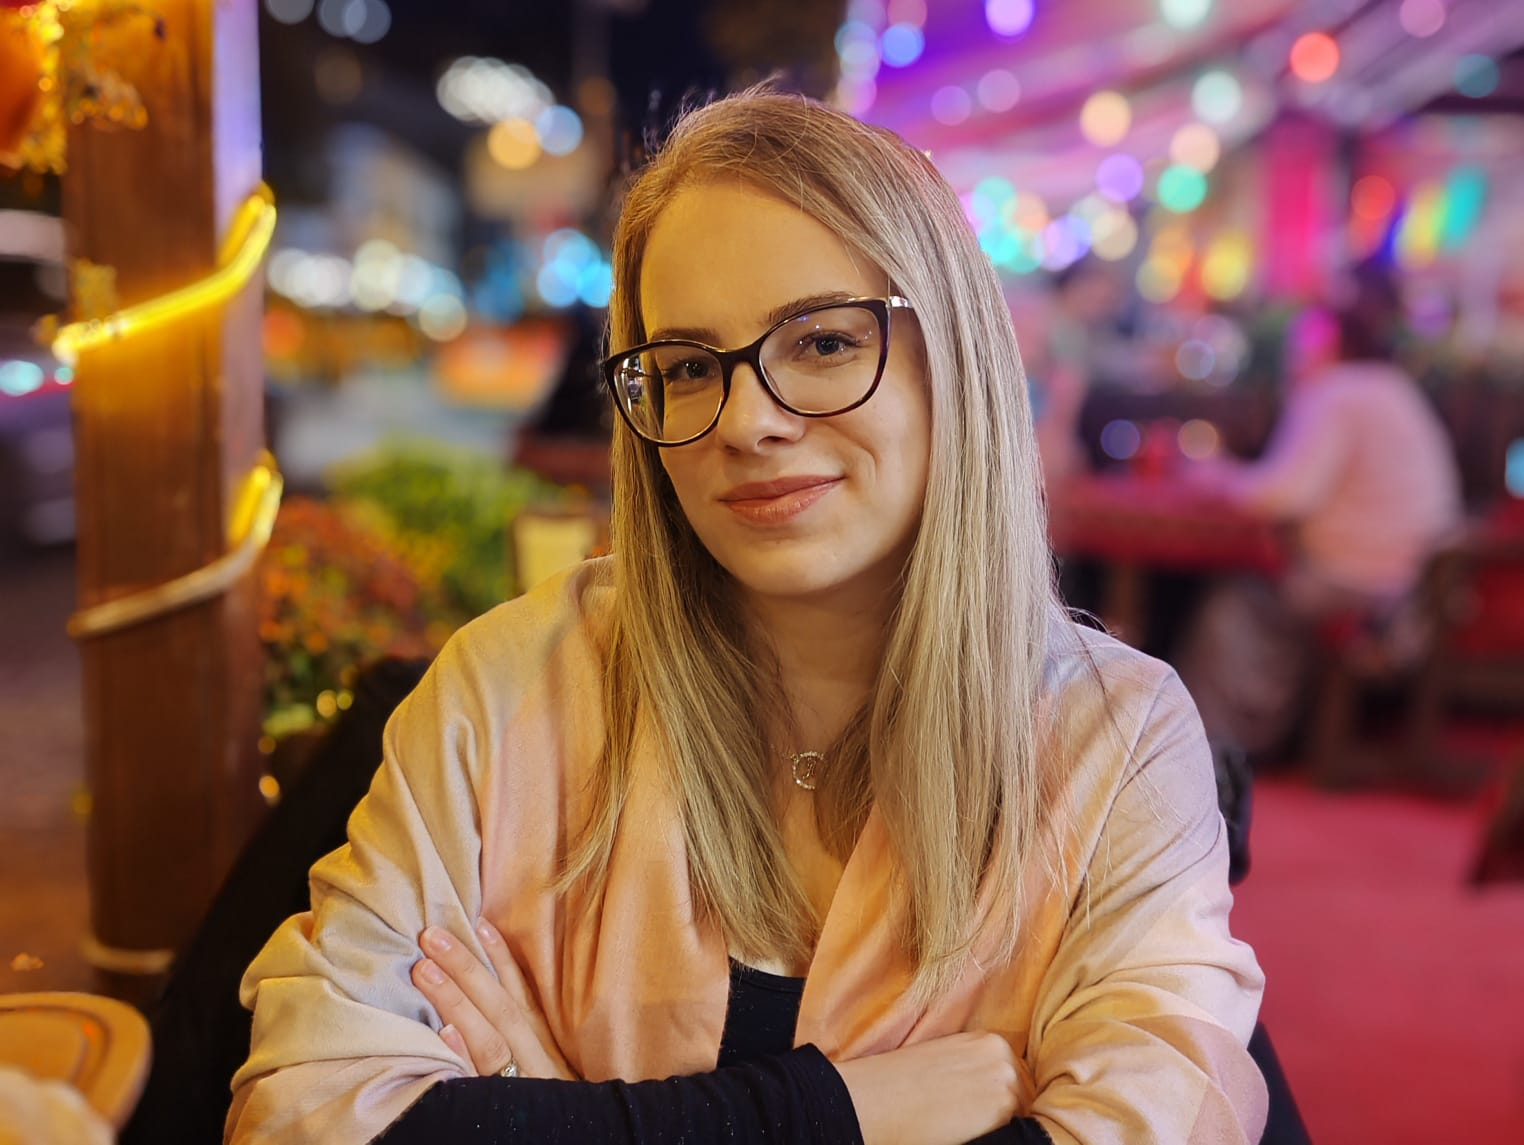
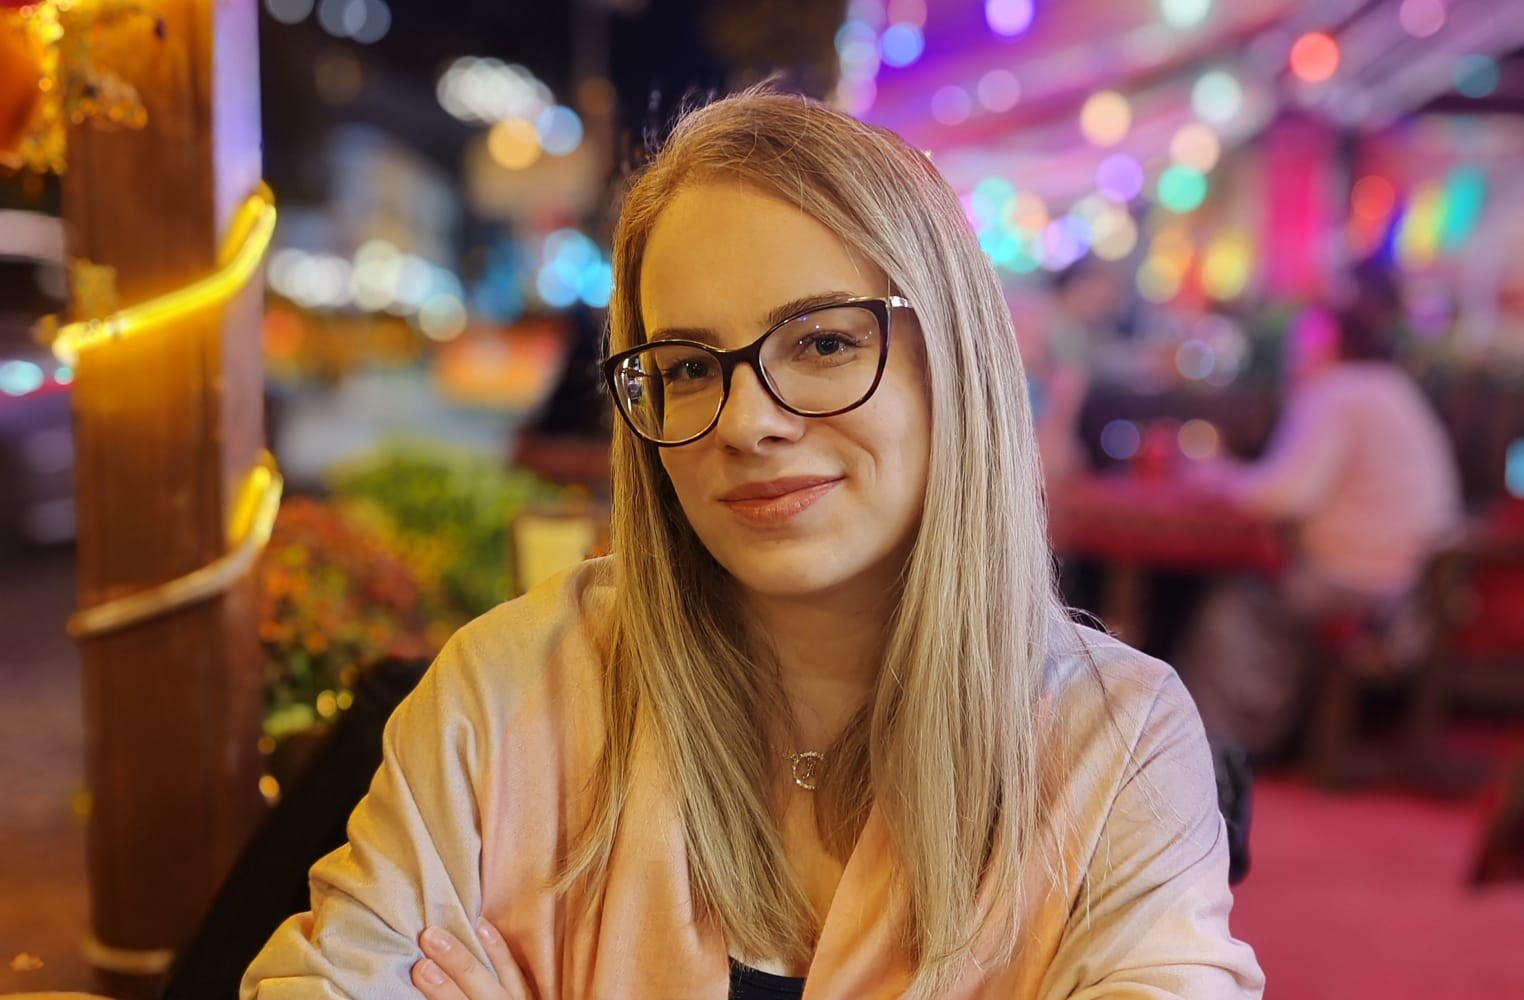
Dodala djurdjinu, cropovala andjelinu sliku

diff --git a/about.html b/about.html
@@ -72,6 +72,17 @@
                         </div>
                     </div>
 
+                    <div class="bg-white rounded-lg overflow-hidden shadow-sm hover:shadow-md transition group">
+                        <div class="h-64 bg-gray-200 relative">
+                            <img src="/assets/images/Djurdja-Lazarevic.jpeg" alt="Đurđa Lazarević" class="w-full h-full object-cover">
+                        </div>
+                        <div class="p-6">
+                            <h3 class="font-bold text-lg text-brand-black mb-1">Đurđa Lazarević</h3>
+                            <p class="text-brand-red text-sm font-semibold uppercase mb-3" data-i18n="role_president">Predsednica</p>
+                            <p class="text-gray-500 text-sm">Posvećen promociji španskog jezika i kulture.</p>
+                        </div>
+                    </div>
+
                     </div>
             </div>
         </div>
